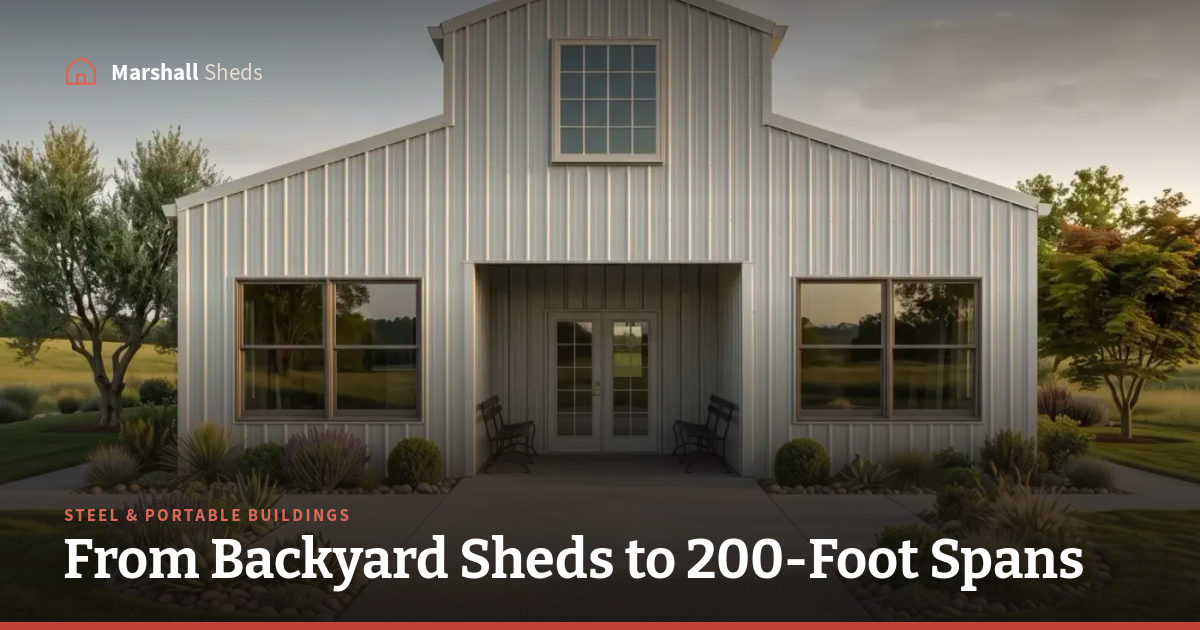
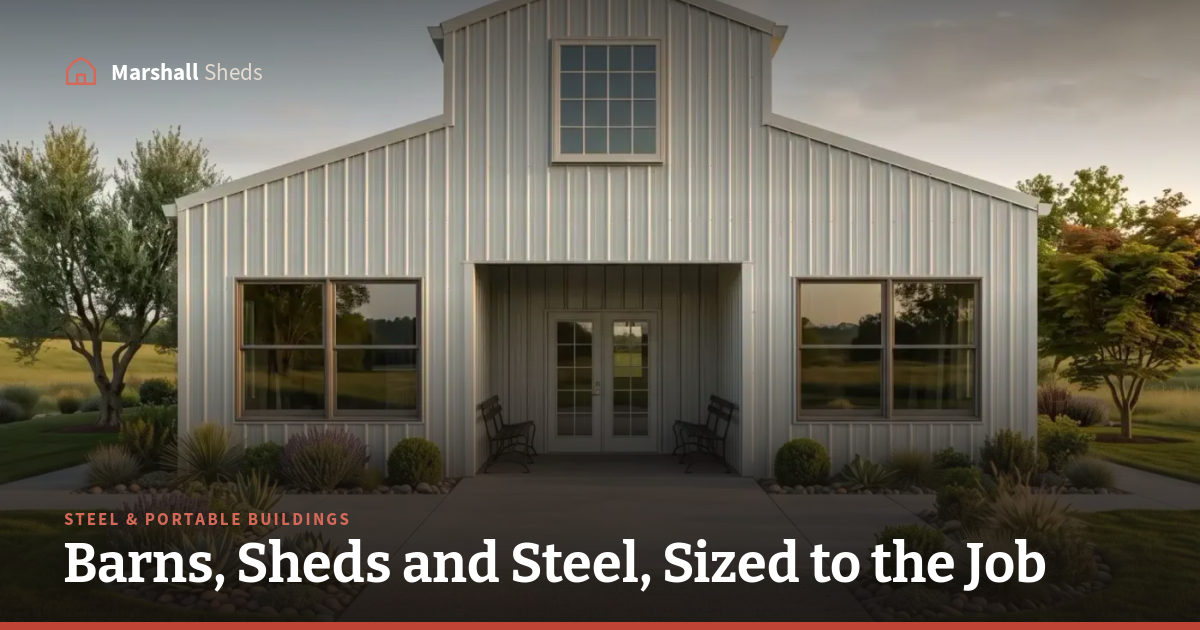
Restore phonePending, and stop a withheld number leaving dead links
Replacing the tree wholesale dropped `phonePending`, which the first pass had
wired through the header, footer, homepage, quote page, contact page and the
form script. It is the better design and it is back: `emailPending` keeps an
address that does not receive out of the copy and the schema, and this does
the same for a line that is not answered yet. Without it the only way to hide
a number is to leave the field empty, so the moment one is typed in it
publishes everywhere at once — including the NAP that directories and Google
cross-reference, which is exactly the field that must not go out early.

Blanking the phone also exposed two pages that rendered it unguarded, in the
source as well:

  - privacy.astro ended "…or call <a href="tel:"></a>." — a link to nowhere
    after a dangling "or call".
  - warranty.astro was worse. With the email withheld too, an empty link was
    the *only* claim route the page offered: it tells you to make contact and
    then gives you nothing to contact. It now falls back to the contact form,
    and the sentence about email keeping a written record only appears when an
    address is actually shown.

Both now read correctly with the flags on and with them off; the launched
state was built and checked, not assumed. The schema withholds `telephone`
on the same condition, which the first pass left on plain `site.phone`.

All nine call sites go through src/lib/contact.ts, so the rule lives in one
[…]

Changed region(s): [[0.0308, 0.7841, 0.925, 0.9349]]

diff --git a/src/scripts/form-submit.js b/src/scripts/form-submit.js
@@ -13,17 +13,18 @@
  */
 
 import site from '../data/site.json';
+import { phoneLive } from '../lib/contact';
 
 const EMAIL_RE = /^[^@\s]+@[^@\s]+\.[^@\s]+$/;
 
 /**
  * Both closing lines used to carry the phone number as a literal, which meant
  * a rebrand could leave the previous operation's number on a success screen.
- * They read it from site.json now, and drop the sentence entirely rather than
- * printing a half-finished one while no number is set.
+ * They go through the same `phoneLive` check the pages use, and drop the
+ * sentence entirely rather than printing a half-finished one.
  */
-const urgentCall = site.phone ? ` If it is urgent, call us on ${site.phone}.` : '';
-const retryCall = site.phone
+const urgentCall = phoneLive ? ` If it is urgent, call us on ${site.phone}.` : '';
+const retryCall = phoneLive
   ? ` Please call ${site.phone} or try again.`
   : ' Please try again in a moment.';
 

diff --git a/src/lib/contact.ts b/src/lib/contact.ts
@@ -1,0 +1,16 @@
+import site from '../data/site.json';
+
+/**
+ * A phone number that exists in site.json but is not answered yet must not
+ * reach a visitor, the footer NAP or the business schema. `phonePending`
+ * mirrors `emailPending` so a line can be recorded before it goes live —
+ * without it, typing a number into site.json publishes it everywhere at once,
+ * including the NAP that directories and Google cross-reference.
+ *
+ * Everything that renders the number goes through here, so there is one place
+ * to get it wrong rather than nine.
+ */
+export const phoneLive: boolean = Boolean(site.phone) && !site.phonePending;
+
+/** `tel:` target. Only meaningful when `phoneLive` is true. */
+export const phoneHref = `tel:${site.phoneRaw || site.phone}`;

diff --git a/README.md b/README.md
@@ -74,15 +74,31 @@ All content lives in `src/data/` as JSON. No code changes needed to update the c
 JSON-LD schema and OG tags all read from it, so a change there lands everywhere
 at once.
 
+Three flags gate what a half-configured site is allowed to publish:
+
+| Flag | While true |
+|---|---|
+| `indexable: false` | `noindex` on every page; the sitemap is withheld from `robots.txt` while crawling stays allowed, so engines can actually see the directive |
+| `emailPending` | The address is withheld everywhere, schema included |
+| `phonePending` | The number is withheld everywhere, schema included — so it can be recorded before the line is answered |
+
+Everything that renders the phone goes through `src/lib/contact.ts`, so there is
+one place to get it wrong rather than nine.
+
 ### Before launch — required
 
-- [ ] **Get a phone number for this business and put it in `site.json`**
-      (`phone` and `phoneRaw`). Both are deliberately blank: the header, footer,
-      contact page and schema all omit the number rather than showing a
-      placeholder. This is the one field that cannot be borrowed from another
-      operation — Google resolves a Business Profile by address plus phone, and
-      a second profile on a number already in use is filed as a duplicate and
-      suspended. A free second line takes minutes to issue.
+- [ ] **Get a phone number for this business**, put it in `site.json` (`phone`
+      and `phoneRaw`), and set `phonePending: false` once the line is answered.
+      Both fields are blank today and the flag is on, so the header, footer,
+      contact page, quote page, warranty page, privacy page and business schema
+      all omit the number rather than showing a placeholder or an empty
+      `tel:` link. The flag exists so a number can be recorded before it is
+      live — without it, typing one in publishes it everywhere at once,
+      including the NAP that directories cross-reference. This is the one field
+      that cannot be borrowed from another operation: Google resolves a Business
+      Profile by address plus phone, and a second profile on a number already in
+      use is filed as a duplicate and suspended. A free second line takes
+      minutes to issue.
 - [ ] **Set up a form endpoint** of this site's own, and test a real submission
       end to end. Sharing an endpoint with another site mixes both inboxes.
 - [ ] **Set up email forwarding** for `info@`, `sales@` and `quotes@`, then set
@@ -279,7 +295,13 @@ Pages workflow only fires on a push to `main`.
   builds look fine.
 - **Titles are capped at 60 characters.** `scripts/check-meta.mjs` fails the
   build on an over-long or duplicated title. The brand name is part of every
-  title, so renaming the business can push pages over on its own.
+  title, so renaming the business can push pages over on its own — and the
+  tagline rides in the homepage title, which caps it at 43 characters.
+- **A withheld contact detail must not leave a dead link.** With no phone set,
+  an unguarded `tel:${site.phone}` renders as `href="tel:"` — a link to nowhere
+  next to a dangling "or call". The warranty page hit the worse version of
+  this: with the email withheld too, an empty link was the only claim route
+  offered. Guard on `phoneLive`, and give the copy somewhere to fall back to.
 
 ## Structure
 
@@ -288,7 +310,7 @@ src/
 ├── data/           JSON content — edit here
 ├── layouts/        Base.astro (head, OG, schema), Article.astro
 ├── components/     Header, Footer, Placeholder
-├── lib/images.ts   slug → image path resolution
+├── lib/            images.ts (slug → path), contact.ts (phone visibility)
 ├── scripts/        form-submit.js — shared fetch handler for both forms
 ├── pages/
 │   ├── building-types/      index + [...slug] → 24 pages  (steel)
